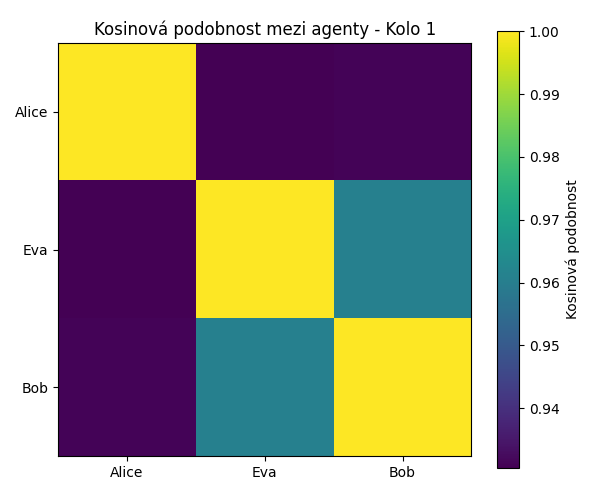
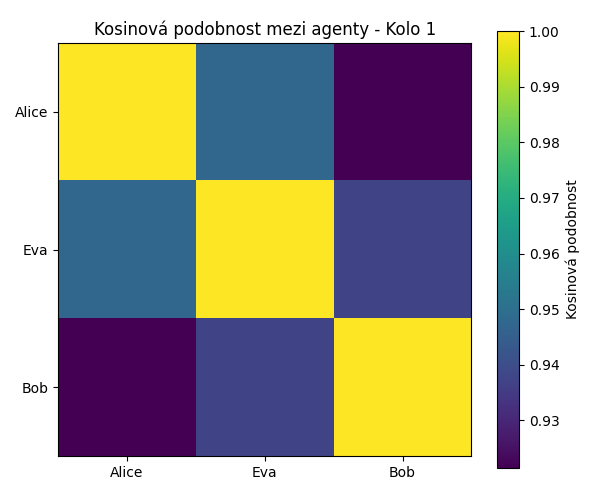
zkracen kontext pameti agenta

diff --git a/app.py b/app.py
@@ -8,13 +8,18 @@ import random
 
 
 # 🔁 Funkce pro jedno vystoupení agenta
-def run_turn(agent, discussion_topic, round_history, full_history, agents_history):
+def run_turn(agent, discussion_topic, round_history, full_history, summary_history, agents_history):
+    
+    # because limited context lenght of models agents only remember last N rounds and summary from moderator
+    recent_rounds = full_history[-(5 * len(agents_history)):]
+    short_history = summary_history + recent_rounds
+
     response = agent["chain"].invoke({
         "role": agent["role"],
         "name": agent["name"],
         "topic": discussion_topic,
         "goal": agent["goal"],
-        "history": full_history
+        "history": short_history
     })
     message = AIMessage(content=response.content)
     round_history.append(message)
@@ -86,7 +91,7 @@ def main():
     discussion_topic = "Budoucnost umělé inteligence"
     init_prompt = f"Dnešní téma je: {discussion_topic}. Diskutujte."
     full_history = [HumanMessage(content=init_prompt)]
-    conversation_rounds = 3
+    conversation_rounds = 20
 
     for round_idx in range(conversation_rounds):
         print(f"\n🔁 Kolo {round_idx + 1} / {conversation_rounds}")
@@ -95,7 +100,7 @@ def main():
         random.shuffle(round_agents)
 
         for agent in round_agents:
-            run_turn(agent, discussion_topic, round_history, full_history, agents_history)
+            run_turn(agent, discussion_topic, round_history, full_history, summary_history[-1], agents_history)
 
         run_moderator(moderator_chain, round_idx, round_history, summary_history)
         plot_cosine_similarity_between_agents(agents_history, round_idx, embedding_model)
